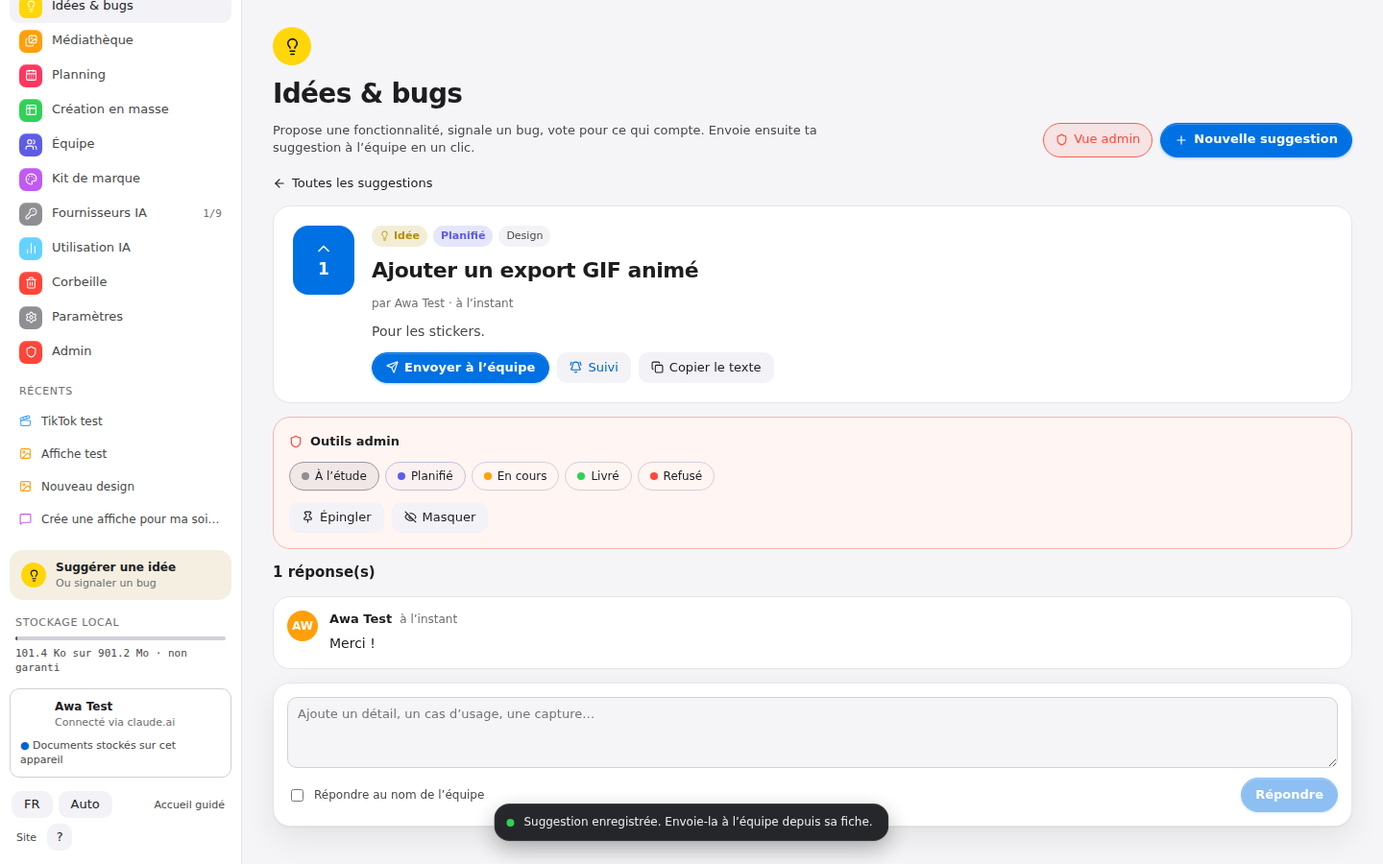
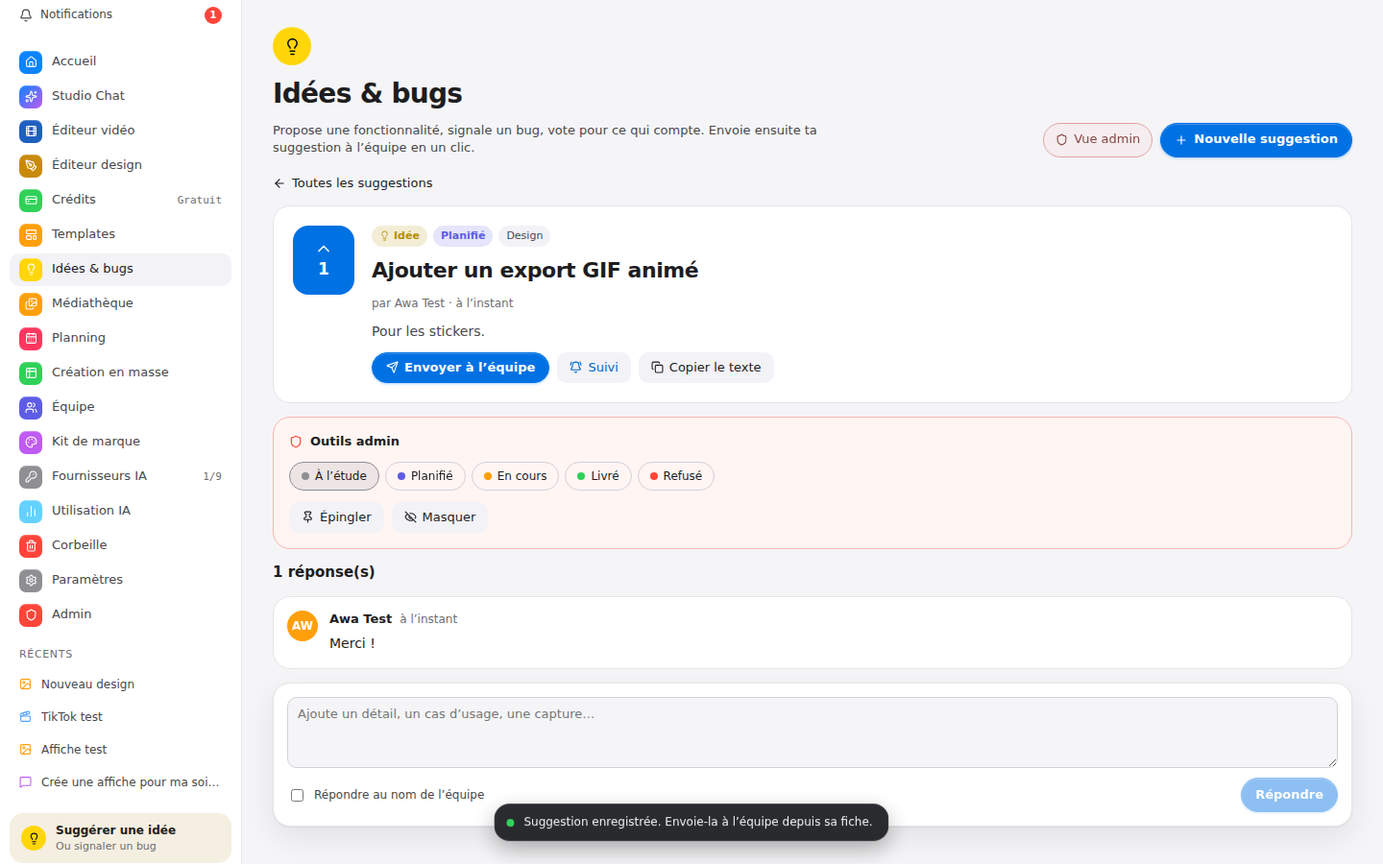
UX: browser back/forward + deep links, view transitions, sliding nav indicator, mobile tab bar and drawer, animated overlays and staggered grids
Claude-Session: https://claude.ai/code/session_01VYe2C5v6y31JvLvuJ3YoTm

diff --git a/app/src/ui/Shell.tsx b/app/src/ui/Shell.tsx
@@ -1,5 +1,5 @@
-import { useEffect, useState } from 'react';
-import { House, Images, LayoutTemplate, Table2, CalendarDays, Palette, KeyRound, Trash2, Settings, Search, Clapperboard, Image as ImageIcon, Sparkles, CreditCard, Lightbulb, Users, ChartNoAxesColumn, Shield, Bell, PenTool, Film, ChevronsUpDown, MessageSquare } from 'lucide-react';
+import { useEffect, useLayoutEffect, useRef, useState } from 'react';
+import { House, Images, LayoutTemplate, Table2, CalendarDays, Palette, KeyRound, Trash2, Settings, Search, Clapperboard, Image as ImageIcon, Sparkles, CreditCard, Lightbulb, Users, ChartNoAxesColumn, Shield, Bell, PenTool, Film, ChevronsUpDown, MessageSquare, Menu, X } from 'lucide-react';
 import { useApp, useT, type Screen } from '../store/app';
 import { listDocs, onDocsChange, createDoc } from '../lib/docs';
 import type { DocMeta, DesignData } from '../model/types';
@@ -99,24 +99,16 @@ export function Shell({ children }: { children: React.ReactNode }) {
   const note = (n: NavItem) => n.id === 'trash' && trashed ? String(trashed) : n.id === 'credits' ? T('Gratuit', 'Free') : n.id === 'providers' ? '1/9' : n.id === 'feedback' && !fbSeen ? T('Nouveau', 'New') : '';
   const displayName = userName || id.name;
 
-  if (narrow) {
-    return (
-      <div style={{ display: 'grid', gridTemplateRows: '52px minmax(0,1fr)', height: '100%' }}>
-        <div className="row" style={{ gap: 6, padding: '0 12px', borderBottom: '1px solid var(--line)', background: 'var(--panel)', overflowX: 'auto' }}>
-          <span className="logo-btn" style={{ width: 28, height: 28 }}><LogoMark size={12} /></span>
-          <button className="btn" style={{ height: 32, position: 'relative' }} onClick={() => useNotifs.getState().setOpen(true)} aria-label="Notifications"><Bell size={14} />{unread > 0 && <span className="mono" style={{ fontSize: 10, color: '#FF453A' }}>{unread}</span>}</button>
-          {nav.map((n) => (
-            <button key={n.id} onClick={() => goNav(n.id)} className="btn" style={{ height: 32, background: screen === n.id ? 'var(--panel2)' : 'transparent', color: screen === n.id ? 'var(--tx)' : 'var(--tx2)' }}>{T(n.fr, n.en)}</button>
-          ))}
-        </div>
-        <main style={{ minWidth: 0, overflow: 'auto' }}>{children}</main>
-      </div>
-    );
-  }
-
-  return (
-    <div style={{ display: 'grid', gridTemplateColumns: '252px minmax(0,1fr)', height: '100%' }}>
-      <aside style={{ borderRight: '1px solid var(--line)', background: 'var(--panel)', display: 'flex', flexDirection: 'column', padding: '14px 10px', gap: 16, minHeight: 0, overflow: 'auto' }}>
+  const navRef = useRef<HTMLElement>(null);
+  const [ind, setInd] = useState({ y: 0, h: 0 });
+  // Sliding highlight behind the active sidebar item.
+  useLayoutEffect(() => {
+    const el = navRef.current?.querySelector<HTMLElement>('[data-on]');
+    const n = el ? { y: el.offsetTop, h: el.offsetHeight } : { y: 0, h: 0 };
+    setInd((o) => (o.y === n.y && o.h === n.h ? o : n));
+  });
+  const side = (
+    <>
         <div className="col" style={{ gap: 10 }}>
           <button onClick={() => go('team')} className="row" style={{ gap: 10, padding: 6, border: 0, borderRadius: 16, background: 'transparent', textAlign: 'left' }}>
             <span className="logo-btn" style={{ width: 30, height: 30, borderRadius: 10 }}><LogoMark /></span>
@@ -131,12 +123,13 @@ export function Shell({ children }: { children: React.ReactNode }) {
             {unread > 0 && <span style={{ minWidth: 18, height: 18, padding: '0 5px', borderRadius: 9, background: '#FF453A', color: '#fff', fontSize: 10, fontWeight: 700, display: 'flex', alignItems: 'center', justifyContent: 'center' }}>{unread}</span>}
           </button>
         </div>
-        <nav className="col" style={{ gap: 2 }}>
+        <nav ref={navRef} className="col" style={{ gap: 2, position: 'relative' }}>
+          <span className="nav-ind" style={{ transform: `translateY(${ind.y}px)`, height: ind.h, opacity: ind.h ? 1 : 0 }} />
           {nav.map((n) => {
             const on = screen === n.id || (n.id === 'open-video' && screen === 'video') || (n.id === 'open-design' && screen === 'design');
             const nt = note(n);
             return (
-              <button key={n.id} onClick={() => goNav(n.id)} className="row" style={{ justifyContent: 'space-between', height: 34, padding: '0 10px', border: 0, borderRadius: 10, background: on ? 'var(--panel2)' : 'transparent', color: on ? 'var(--tx)' : 'var(--tx2)', fontSize: 13, fontWeight: 500, textAlign: 'left' }}>
+              <button key={n.id} data-on={on || undefined} onClick={() => goNav(n.id)} className="row nav-item" style={{ justifyContent: 'space-between', height: 34, padding: '0 10px', border: 0, borderRadius: 10, background: 'transparent', position: 'relative', zIndex: 1, color: on ? 'var(--tx)' : 'var(--tx2)', fontSize: 13, fontWeight: 500, textAlign: 'left' }}>
                 <span className="row" style={{ gap: 10 }}>
                   <span style={{ width: 24, height: 24, borderRadius: 7, background: n.c, display: 'inline-flex', alignItems: 'center', justifyContent: 'center', boxShadow: 'inset 0 1px 0 rgba(255,255,255,.25)' }}><n.I size={13} color="#fff" /></span>
                   {T(n.fr, n.en)}
@@ -192,8 +185,52 @@ export function Shell({ children }: { children: React.ReactNode }) {
             <button className="btn" style={{ height: 28, width: 26, padding: 0 }} onClick={() => set({ kbOpen: true })} title={T('Raccourcis', 'Shortcuts')}>?</button>
           </div>
         </div>
+    </>
+  );
+
+  const mainRef = useRef<HTMLElement>(null);
+  // Each screen starts at the top instead of inheriting the previous screen's scroll position.
+  useLayoutEffect(() => { mainRef.current?.scrollTo({ top: 0 }); setDrawer(false); }, [screen]);
+  const [drawer, setDrawer] = useState(false);
+
+  if (narrow) {
+    const tabs: NavItem[] = ['home', 'chat', 'open-video', 'open-design'].map((k) => NAV.find((n) => n.id === k)!);
+    const isOn = (n: NavItem) => screen === n.id || (n.id === 'open-video' && screen === 'video') || (n.id === 'open-design' && screen === 'design');
+    const current = nav.find(isOn);
+    return (
+      <div style={{ display: 'grid', gridTemplateRows: '52px minmax(0,1fr) auto', height: '100%' }}>
+        <div className="row" style={{ gap: 8, padding: '0 10px', borderBottom: '1px solid var(--line)', background: 'var(--panel)' }}>
+          <button className="btn bare icon press" style={{ width: 36, height: 36 }} onClick={() => setDrawer(true)} aria-label={T('Menu', 'Menu')}><Menu size={19} /></button>
+          <span className="logo-btn" style={{ width: 28, height: 28 }}><LogoMark size={12} /></span>
+          <span className="grow ell" style={{ fontWeight: 600, fontSize: 15 }}>{current ? T(current.fr, current.en) : 'Montaj Studio'}</span>
+          <button className="btn bare icon press" style={{ width: 36, height: 36 }} onClick={() => set({ palOpen: true })} aria-label={T('Rechercher', 'Search')}><Search size={17} /></button>
+          <button className="btn bare icon press" style={{ width: 36, height: 36, position: 'relative' }} onClick={() => useNotifs.getState().setOpen(true)} aria-label="Notifications"><Bell size={17} />{unread > 0 && <span style={{ position: 'absolute', top: 5, right: 5, minWidth: 15, height: 15, padding: '0 4px', borderRadius: 8, background: '#FF453A', color: '#fff', fontSize: 9, fontWeight: 700, display: 'flex', alignItems: 'center', justifyContent: 'center' }}>{unread}</span>}</button>
+        </div>
+        <main ref={mainRef} style={{ minWidth: 0, overflow: 'auto' }}>{children}</main>
+        <nav className="tabbar" aria-label={T('Navigation principale', 'Main navigation')}>
+          {tabs.map((n) => (
+            <button key={n.id} className={'tab press' + (isOn(n) ? ' on' : '')} onClick={() => goNav(n.id)}><n.I size={19} /><span>{{ home: T('Accueil', 'Home'), chat: 'Chat', 'open-video': T('Vidéo', 'Video'), 'open-design': 'Design' }[n.id as string]}</span></button>
+          ))}
+          <button className={'tab press' + (!tabs.some(isOn) ? ' on' : '')} onClick={() => setDrawer(true)}><Menu size={19} /><span>{T('Plus', 'More')}</span></button>
+        </nav>
+        {drawer && (
+          <div className="drawer-back" onPointerDown={(e) => { if (e.target === e.currentTarget) setDrawer(false); }}>
+            <aside className="drawer">
+              <div className="row" style={{ justifyContent: 'flex-end' }}><button className="btn bare icon press" onClick={() => setDrawer(false)} aria-label={T('Fermer', 'Close')}><X size={18} /></button></div>
+              {side}
+            </aside>
+          </div>
+        )}
+      </div>
+    );
+  }
+
+  return (
+    <div style={{ display: 'grid', gridTemplateColumns: '252px minmax(0,1fr)', height: '100%' }}>
+      <aside className="sidebar" style={{ borderRight: '1px solid var(--line)', background: 'var(--panel)', display: 'flex', flexDirection: 'column', padding: '14px 10px', gap: 16, minHeight: 0, overflow: 'auto' }}>
+        {side}
       </aside>
-      <main style={{ minWidth: 0, overflow: 'auto' }}>{children}</main>
+      <main ref={mainRef} style={{ minWidth: 0, overflow: 'auto' }}>{children}</main>
     </div>
   );
 }
@@ -209,7 +246,7 @@ export function NotificationsPanel() {
   const color: Record<string, string> = { export: '#30D158', assistant: '#0A84FF', chat: '#BF5AF2', trash: '#FF453A', version: '#FF9F0A', feedback: '#FFD60A', system: '#8E8E93' };
   return (
     <div onPointerDown={(e) => { if (e.target === e.currentTarget) close(); }} style={{ position: 'fixed', inset: 0, zIndex: 76 }}>
-      <div className="col" style={{ position: 'absolute', left: window.innerWidth < 860 ? 12 : 232, top: window.innerWidth < 860 ? 56 : 100, width: 360, maxWidth: 'calc(100vw - 24px)', maxHeight: '70vh', borderRadius: 20, background: 'var(--panel)', border: '1px solid var(--line2)', boxShadow: '0 30px 80px rgba(0,0,0,.4)', overflow: 'hidden' }}>
+      <div className="col pop" style={{ position: 'absolute', left: window.innerWidth < 860 ? 12 : 232, top: window.innerWidth < 860 ? 56 : 100, width: 360, maxWidth: 'calc(100vw - 24px)', maxHeight: '70vh', borderRadius: 20, background: 'var(--panel)', border: '1px solid var(--line2)', boxShadow: '0 30px 80px rgba(0,0,0,.4)', overflow: 'hidden' }}>
         <div className="row" style={{ gap: 8, padding: '14px 16px', borderBottom: '1px solid var(--line)' }}>
           <span className="grow" style={{ fontWeight: 600 }}>Notifications</span>
           <button className="btn bare" style={{ height: 24, padding: 0, color: 'var(--accTx)' }} onClick={() => useNotifs.getState().readAll()}>{T('Tout marquer comme lu', 'Mark all as read')}</button>

diff --git a/app/src/styles.css b/app/src/styles.css
@@ -246,3 +246,64 @@ input[type=color] { width: 28px; height: 28px; padding: 0; border: 1px solid var
   .site-vis { padding: 24px 8px; min-height: 0; }
   .site-feat { gap: 28px; }
 }
+
+/* ---------- Motion & navigation polish ---------- */
+:root { --ease-out: cubic-bezier(.2,.8,.2,1); --ease-spring: cubic-bezier(.34,1.4,.64,1); }
+
+/* Screen changes: cross-fade + slight rise (View Transitions), sidebar stays still. */
+.sidebar { view-transition-name: sidebar; }
+.tabbar { view-transition-name: tabbar; }
+::view-transition-old(root) { animation: vt-out .16s ease both; }
+::view-transition-new(root) { animation: vt-in .32s var(--ease-out) both; }
+@keyframes vt-out { to { opacity: 0; } }
+@keyframes vt-in { from { opacity: 0; transform: translateY(8px) scale(.995); } }
+@supports (view-transition-name: none) { .screen-in { animation: none; } }
+
+/* Sidebar: sliding highlight behind the active item. */
+.nav-ind { position: absolute; left: 0; right: 0; top: 0; border-radius: 10px; background: var(--panel2); transition: transform .32s var(--ease-spring), height .2s ease, opacity .2s ease; pointer-events: none; }
+.nav-item { color: var(--tx2); transition: color .15s ease; }
+.nav-item[data-on] { color: var(--tx); }
+.nav-item:not([data-on]):hover { background: color-mix(in oklab, var(--panel2) 55%, transparent) !important; }
+.nav-item > span > span:first-child { transition: transform .25s var(--ease-spring); }
+.nav-item:hover > span > span:first-child { transform: scale(1.1) rotate(-4deg); }
+
+/* Press feedback. */
+.ms .btn:not(:disabled):active, .ms .chip:not(:disabled):active, .ms .press:not(:disabled):active, .ms .nav-item:active { transform: scale(.97); }
+.ms .btn, .ms .chip, .ms .press, .ms .nav-item { transition: background-color .15s ease, border-color .15s ease, filter .15s ease, box-shadow .2s ease, transform .12s ease, color .15s ease; }
+
+/* Overlays: fade the backdrop, spring the panel in. */
+.overlay { animation: ov-in .2s ease both; }
+.overlay > .modal, .overlay > div:first-child:not(.modal) { animation: pop-in .28s var(--ease-spring) both; }
+@keyframes ov-in { from { opacity: 0; backdrop-filter: blur(0); } }
+@keyframes pop-in { from { opacity: 0; transform: translateY(10px) scale(.96); } }
+.pop { animation: pop-in .26s var(--ease-spring) both; transform-origin: top left; }
+
+/* Lists and grids appear in a short cascade. */
+.stagger > * { animation: st-in .42s var(--ease-out) backwards; }
+.stagger > *:nth-child(1) { animation-delay: 0ms; } .stagger > *:nth-child(2) { animation-delay: 35ms; } .stagger > *:nth-child(3) { animation-delay: 70ms; }
+.stagger > *:nth-child(4) { animation-delay: 105ms; } .stagger > *:nth-child(5) { animation-delay: 140ms; } .stagger > *:nth-child(6) { animation-delay: 175ms; }
+.stagger > *:nth-child(7) { animation-delay: 210ms; } .stagger > *:nth-child(8) { animation-delay: 245ms; } .stagger > *:nth-child(n+9) { animation-delay: 280ms; }
+@keyframes st-in { from { opacity: 0; transform: translateY(10px); } }
+.lift { transition: transform .25s var(--ease-out), box-shadow .25s ease, border-color .2s ease, background-color .2s ease; }
+.lift:hover { transform: translateY(-3px); box-shadow: 0 14px 34px rgba(0,0,0,.18); }
+
+/* Mobile: bottom tab bar + slide-in drawer. */
+.tabbar { display: grid; grid-template-columns: repeat(5, 1fr); border-top: 1px solid var(--line); background: color-mix(in oklab, var(--panel) 92%, transparent); backdrop-filter: blur(16px); padding: 4px 4px calc(4px + env(safe-area-inset-bottom)); }
+.tab { display: flex; flex-direction: column; align-items: center; justify-content: center; gap: 2px; height: 50px; border: 0; border-radius: 12px; background: transparent; color: var(--tx3); font-size: 10px; font-weight: 500; }
+.tab.on { color: var(--accTx); }
+.tab.on svg { animation: tab-bounce .35s var(--ease-spring); }
+@keyframes tab-bounce { 40% { transform: translateY(-3px) scale(1.12); } }
+.drawer-back { position: fixed; inset: 0; z-index: 70; background: var(--overlay); animation: ov-in .2s ease both; }
+.drawer { position: absolute; top: 0; bottom: 0; left: 0; width: min(300px, 86vw); background: var(--panel); border-right: 1px solid var(--line); padding: 10px 10px 20px; display: flex; flex-direction: column; gap: 16px; overflow: auto; animation: drawer-in .3s var(--ease-out) both; box-shadow: 20px 0 60px rgba(0,0,0,.3); }
+@keyframes drawer-in { from { transform: translateX(-100%); } }
+
+@media (prefers-reduced-motion: reduce) {
+  ::view-transition-old(root), ::view-transition-new(root) { animation: none; }
+  .overlay, .overlay > *, .pop, .stagger > *, .drawer, .drawer-back, .tab.on svg { animation: none !important; }
+  .nav-ind, .lift, .ms .btn, .ms .chip, .ms .press, .ms .nav-item { transition: none !important; }
+  .lift:hover { transform: none; }
+}
+.stagger > button { transition: transform .25s var(--ease-out), box-shadow .25s ease, border-color .2s ease, background-color .2s ease, filter .15s ease; }
+.stagger > button:not(:disabled):hover { transform: translateY(-3px); box-shadow: 0 14px 34px rgba(0,0,0,.16); }
+.stagger > button:not(:disabled):active { transform: translateY(-1px) scale(.98); }
+@media (prefers-reduced-motion: reduce) { .stagger > button:hover, .stagger > button:active { transform: none; } }

diff --git a/app/src/store/app.ts b/app/src/store/app.ts
@@ -1,4 +1,5 @@
 import { create } from 'zustand';
+import { flushSync } from 'react-dom';
 import { get, prefs, put } from '../lib/db';
 import type { BrandKit } from '../model/types';
 
@@ -7,6 +8,35 @@ export const APP_NAME = 'Montaj Studio';
 export type Screen =
   | 'onboarding' | 'home' | 'chat' | 'credits' | 'feedback' | 'library' | 'templates' | 'bulk' | 'planner' | 'team' | 'brand'
   | 'providers' | 'usage' | 'trash' | 'settings' | 'admin' | 'legal' | 'design' | 'video' | 'site';
+
+const SCREENS: Screen[] = ['onboarding', 'home', 'chat', 'credits', 'feedback', 'library', 'templates', 'bulk', 'planner', 'team', 'brand', 'providers', 'usage', 'trash', 'settings', 'admin', 'legal', 'design', 'video', 'site'];
+
+// Hash routes (#/templates, #/design/<id>) so the browser back/forward buttons and reloads work.
+function parseHash(): { screen: Screen; docId: string | null } | null {
+  try {
+    const [a, b] = location.hash.replace(/^#\/?/, '').split('/');
+    if (!SCREENS.includes(a as Screen)) return null;
+    if ((a === 'design' || a === 'video') && !b) return null;
+    return { screen: a as Screen, docId: b ? decodeURIComponent(b) : null };
+  } catch { return null; }
+}
+const hashOf = (screen: Screen, docId: string | null) => '#/' + screen + (docId && (screen === 'design' || screen === 'video') ? '/' + encodeURIComponent(docId) : '');
+function writeHistory(screen: Screen, docId: string | null, replace = false) {
+  try {
+    const h = hashOf(screen, docId);
+    if (!replace && location.hash === h) return;
+    history[replace ? 'replaceState' : 'pushState']({ screen, docId }, '', h);
+  } catch { /* sandboxed history */ }
+}
+
+export const reducedMotion = () => typeof matchMedia === 'function' && matchMedia('(prefers-reduced-motion: reduce)').matches;
+
+// Cross-fades a state change with the View Transitions API when the browser has it.
+export function withTransition(update: () => void) {
+  const d = document as Document & { startViewTransition?: (cb: () => void) => unknown };
+  if (!d.startViewTransition || reducedMotion() || document.visibilityState !== 'visible') { update(); return; }
+  try { d.startViewTransition(() => flushSync(update)); } catch { update(); }
+}
 
 export type Lang = 'fr' | 'en';
 export type Mode = 'system' | 'dark' | 'light';
@@ -51,8 +81,8 @@ const initialLang: Lang = prefs.get<Lang>('lang', (navigator.language || 'fr').s
 
 export const useApp = create<AppState>((setS, getS) => ({
   // First visit lands on the public site; returning users go straight to their home.
-  screen: prefs.get('onboarded', false) ? 'home' : 'site',
-  docId: null,
+  screen: (prefs.get('onboarded', false) && parseHash()?.screen) || (prefs.get('onboarded', false) ? 'home' : 'site'),
+  docId: prefs.get('onboarded', false) ? parseHash()?.docId ?? null : null,
   lang: initialLang,
   mode: prefs.get<Mode>('mode', 'system'),
   userName: prefs.get('userName', ''),
@@ -66,11 +96,14 @@ export const useApp = create<AppState>((setS, getS) => ({
   palOpen: false,
   pendingPrompt: null,
   go(screen, docId = null) {
-    setS({ screen, docId: docId ?? (screen === 'design' || screen === 'video' ? getS().docId : null) });
+    const next = { screen, docId: docId ?? (screen === 'design' || screen === 'video' ? getS().docId : null) };
+    if (next.screen === getS().screen && next.docId === getS().docId) return;
+    withTransition(() => setS(next));
+    writeHistory(next.screen, next.docId);
   },
   setLang(l) { prefs.set('lang', l); setS({ lang: l }); },
   toggleLang() { getS().setLang(getS().lang === 'fr' ? 'en' : 'fr'); },
-  setMode(m) { prefs.set('mode', m); setS({ mode: m }); },
+  setMode(m) { prefs.set('mode', m); withTransition(() => setS({ mode: m })); },
   cycleMode() {
     const order: Mode[] = ['system', 'dark', 'light'];
     const m = order[(order.indexOf(getS().mode) + 1) % order.length];
@@ -103,3 +136,13 @@ export function useT() {
   return (fr: string, en: string) => (lang === 'fr' ? fr : en);
 }
 export const tNow = (fr: string, en: string) => (useApp.getState().lang === 'fr' ? fr : en);
+
+// Keep the URL in sync with the first screen, then follow the browser's back/forward buttons.
+writeHistory(useApp.getState().screen, useApp.getState().docId, true);
+window.addEventListener('popstate', (e) => {
+  const st = (e.state as { screen?: Screen; docId?: string | null } | null) ?? parseHash();
+  if (!st?.screen || !SCREENS.includes(st.screen)) return;
+  const cur = useApp.getState();
+  if (st.screen === cur.screen && (st.docId ?? null) === cur.docId) return;
+  withTransition(() => useApp.setState({ screen: st.screen!, docId: st.docId ?? null, palOpen: false, kbOpen: false }));
+});

diff --git a/app/src/screens/Credits.tsx b/app/src/screens/Credits.tsx
@@ -18,7 +18,7 @@ export function Credits() {
   return (
     <div className="page screen-in" style={{ maxWidth: 1100 }}>
       <PageHead color="#30D158" icon={<CreditCard size={19} />} title={T('Abonnement et crédits', 'Plan and credits')} sub={T('Montaj Studio est gratuit. L’IA utilise ton compte Claude : rien à acheter ici.', 'Montaj Studio is free. AI uses your Claude account: nothing to buy here.')} />
-      <div style={{ display: 'grid', gridTemplateColumns: 'repeat(auto-fit,minmax(280px,1fr))', gap: 16 }}>
+      <div className="stagger" style={{ display: 'grid', gridTemplateColumns: 'repeat(auto-fit,minmax(280px,1fr))', gap: 16 }}>
         <div className="card col" style={{ padding: 20, gap: 10 }}>
           <span className="faint" style={{ fontSize: 12 }}>{T('Formule actuelle', 'Current plan')}</span>
           <div className="row" style={{ gap: 10 }}><span style={{ fontSize: 22, fontWeight: 700 }}>{T('Gratuit', 'Free')}</span><span className="pill ok">{T('Sans abonnement', 'No subscription')}</span></div>
@@ -41,7 +41,7 @@ export function Credits() {
         </div>
       </div>
       <span className="h2">{T('Formules', 'Plans')}</span>
-      <div style={{ display: 'grid', gridTemplateColumns: 'repeat(auto-fit,minmax(260px,1fr))', gap: 12 }}>
+      <div className="stagger" style={{ display: 'grid', gridTemplateColumns: 'repeat(auto-fit,minmax(260px,1fr))', gap: 12 }}>
         {plans.map((p) => (
           <div key={p.id} className="col" style={{ borderRadius: 22, background: `color-mix(in oklab, ${p.c} 12%, var(--panel))`, padding: 20, gap: 12, border: `1px solid ${p.current ? p.c : 'transparent'}` }}>
             <span style={{ width: 36, height: 36, borderRadius: 18, background: p.c, display: 'flex', alignItems: 'center', justifyContent: 'center' }}><p.icon size={17} color="#111113" /></span>

diff --git a/app/src/screens/Home.tsx b/app/src/screens/Home.tsx
@@ -111,7 +111,7 @@ export function Home() {
           <span style={{ fontSize: 15, fontWeight: 600 }}>{T('Commencer un format', 'Start a format')}</span>
           <button className="btn bare" onClick={() => setCreateOpen(true)}>{T('Tous les formats', 'All formats')} <ArrowRight size={12} /></button>
         </div>
-        <div style={{ display: 'grid', gridTemplateColumns: 'repeat(auto-fill,minmax(160px,1fr))', gap: 10 }}>
+        <div className="stagger" style={{ display: 'grid', gridTemplateColumns: 'repeat(auto-fill,minmax(160px,1fr))', gap: 10 }}>
           {tiles.map((x) => {
             const f = fmt(x.f);
             return (
@@ -132,7 +132,7 @@ export function Home() {
             {q ? T('Aucun document ne correspond.', 'No matching document.') : T('Aucun document pour l’instant. Choisis un format ci-dessus ou décris ce que tu veux créer.', 'No documents yet. Pick a format above or describe what you want to make.')}
           </div>
         )}
-        <div style={{ display: 'grid', gridTemplateColumns: 'repeat(auto-fill,minmax(200px,1fr))', gap: 16 }}>
+        <div className="stagger" style={{ display: 'grid', gridTemplateColumns: 'repeat(auto-fill,minmax(200px,1fr))', gap: 16 }}>
           {shown.map((d) => (
             <div key={d.id} style={{ position: 'relative' }}>
               <button onClick={async () => { await trashDoc(d.id); notify(T('Déplacé dans la corbeille (restaurable 30 jours).', 'Moved to trash (restorable for 30 days).')); }} title={T('Mettre à la corbeille', 'Move to trash')} style={{ position: 'absolute', top: 8, right: 8, zIndex: 2, width: 28, height: 28, borderRadius: 10, border: 0, background: 'rgba(10,11,13,.55)', color: '#fff', backdropFilter: 'blur(6px)', display: 'flex', alignItems: 'center', justifyContent: 'center' }}><Trash2 size={12} /></button>

diff --git a/app/src/screens/Usage.tsx b/app/src/screens/Usage.tsx
@@ -32,7 +32,7 @@ export function Usage() {
   return (
     <div className="page screen-in" style={{ maxWidth: 1100 }}>
       <PageHead color="#64D2FF" icon={<ChartNoAxesColumn size={19} />} title={T('Utilisation IA', 'AI usage')} sub={T('Chaque requête envoyée à Claude depuis cet appareil. Elles sont décomptées de ton forfait Claude, pas facturées par Montaj.', 'Every request sent to Claude from this device. They count against your Claude plan, not billed by Montaj.')} />
-      <div style={{ display: 'grid', gridTemplateColumns: 'repeat(auto-fit,minmax(180px,1fr))', gap: 12 }}>
+      <div className="stagger" style={{ display: 'grid', gridTemplateColumns: 'repeat(auto-fit,minmax(180px,1fr))', gap: 12 }}>
         {[
           [T('Aujourd’hui', 'Today'), String(today), limit ? T(`sur ${limit} autorisées`, `of ${limit} allowed`) : T('sans limite', 'no limit'), '#0A84FF'],
           [T('Total', 'Total'), String(rows.length), T(`${ok} réussies`, `${ok} succeeded`), '#30D158'],
@@ -44,7 +44,7 @@ export function Usage() {
           </div>
         ))}
       </div>
-      <div style={{ display: 'grid', gridTemplateColumns: 'repeat(auto-fit,minmax(300px,1fr))', gap: 16 }}>
+      <div className="stagger" style={{ display: 'grid', gridTemplateColumns: 'repeat(auto-fit,minmax(300px,1fr))', gap: 16 }}>
         <div className="card col" style={{ padding: 16, gap: 12 }}>
           <span className="eyebrow">{T('7 derniers jours', 'Last 7 days')}</span>
           <div className="row" style={{ alignItems: 'flex-end', gap: 8, height: 120 }}>

diff --git a/app/src/screens/Library.tsx b/app/src/screens/Library.tsx
@@ -70,7 +70,7 @@ export function Library() {
         {filters.map((x) => <button key={x.id} className={'chip' + (f === x.id ? ' on' : '')} onClick={() => setF(x.id)}>{x.l}</button>)}
       </div>
       <div className="row" style={{ gap: 16, alignItems: 'flex-start', flexWrap: 'wrap' }}>
-        <div style={{ flex: '1 1 420px', minWidth: 0, display: 'grid', gridTemplateColumns: 'repeat(auto-fill,minmax(170px,1fr))', gap: 12, outline: drop ? '2px dashed var(--acc)' : undefined, outlineOffset: 6, borderRadius: 10 }}>
+        <div className="stagger" style={{ flex: '1 1 420px', minWidth: 0, display: 'grid', gridTemplateColumns: 'repeat(auto-fill,minmax(170px,1fr))', gap: 12, outline: drop ? '2px dashed var(--acc)' : undefined, outlineOffset: 6, borderRadius: 10 }}>
           {shown.map((m) => (
             <button key={m.id} onClick={() => setSel(m.id)} className="col" style={{ padding: 0, border: 0, background: 'transparent', gap: 6, textAlign: 'left' }}>
               <div style={{ width: '100%', aspectRatio: '4/3', borderRadius: 10, outline: sel === m.id ? '2px solid var(--acc)' : undefined, outlineOffset: 2, border: '1px solid var(--line)', background: m.thumb ? `url(${m.thumb}) center/cover` : 'var(--panel2)', display: 'flex', flexDirection: 'column', justifyContent: 'space-between', padding: 6 }}>

diff --git a/app/src/screens/Templates.tsx b/app/src/screens/Templates.tsx
@@ -24,7 +24,7 @@ export function Templates() {
       <PageHead color="#FF9F0A" icon={<LayoutTemplate size={19} />} title={T('Modèles', 'Templates')} sub={T('Des points de départ originaux, entièrement modifiables. Les cadres photo sont vides : dépose tes propres images.', 'Original starting points, fully editable. Photo frames are empty: drop your own images.')}
         right={<div className="row" style={{ position: 'relative' }}><Search size={14} style={{ position: 'absolute', left: 11, color: 'var(--tx3)' }} /><input id="tpl-search" className="input" value={q} onChange={(e) => setQ(e.target.value)} placeholder={T('Rechercher un modèle', 'Search templates')} style={{ width: 260, height: 38, paddingLeft: 34, borderRadius: 999 }} /></div>} />
       <div className="row wrap" style={{ gap: 6 }}>{cats.map((c) => <button key={c.id} className={'chip' + (cat === c.id ? ' on' : '')} onClick={() => setCat(c.id)}>{c.l}</button>)}</div>
-      <div style={{ display: 'grid', gridTemplateColumns: 'repeat(auto-fill,minmax(220px,1fr))', gap: 16 }}>
+      <div className="stagger" style={{ display: 'grid', gridTemplateColumns: 'repeat(auto-fill,minmax(220px,1fr))', gap: 16 }}>
         {shown.map((t) => {
           const d = previews.get(t.id)!;
           const p = d.pages[0];

diff --git a/app/src/screens/Admin.tsx b/app/src/screens/Admin.tsx
@@ -34,7 +34,7 @@ export function Admin() {
   return (
     <div className="page screen-in" style={{ maxWidth: 1300 }}>
       <PageHead color="#FF453A" icon={<Shield size={19} />} title={T('Administration', 'Admin')} sub={T('Contenu, stockage, activité IA et modération de cette installation.', 'Content, storage, AI activity and moderation for this installation.')} />
-      <div style={{ display: 'grid', gridTemplateColumns: 'repeat(auto-fit,minmax(200px,1fr))', gap: 12 }}>
+      <div className="stagger" style={{ display: 'grid', gridTemplateColumns: 'repeat(auto-fit,minmax(200px,1fr))', gap: 12 }}>
         {kpis.map(([I, c, l, v, s]) => (
           <div key={l} className="col" style={{ borderRadius: 18, padding: 16, background: `color-mix(in oklab, ${c} 12%, var(--panel))`, gap: 6 }}>
             <span className="row muted" style={{ gap: 6, fontSize: 12 }}><I size={13} color={c} />{l}</span>

diff --git a/app/src/screens/Providers.tsx b/app/src/screens/Providers.tsx
@@ -72,7 +72,7 @@ export function Providers() {
       </div>
       <div className="col" style={{ gap: 12 }}>
         <div className="row" style={{ justifyContent: 'space-between', alignItems: 'baseline' }}><span className="h2">{T('Catalogue', 'Catalog')}</span><span className="faint" style={{ fontSize: 12 }}>{T('1 connecté sur', '1 connected of')} {PROVIDERS.length}</span></div>
-        <div style={{ display: 'grid', gridTemplateColumns: 'repeat(auto-fill,minmax(200px,1fr))', gap: 10 }}>
+        <div className="stagger" style={{ display: 'grid', gridTemplateColumns: 'repeat(auto-fill,minmax(200px,1fr))', gap: 10 }}>
           {PROVIDERS.map((x) => {
             const on = x.live && status !== 'off' && status !== 'checking';
             return (
